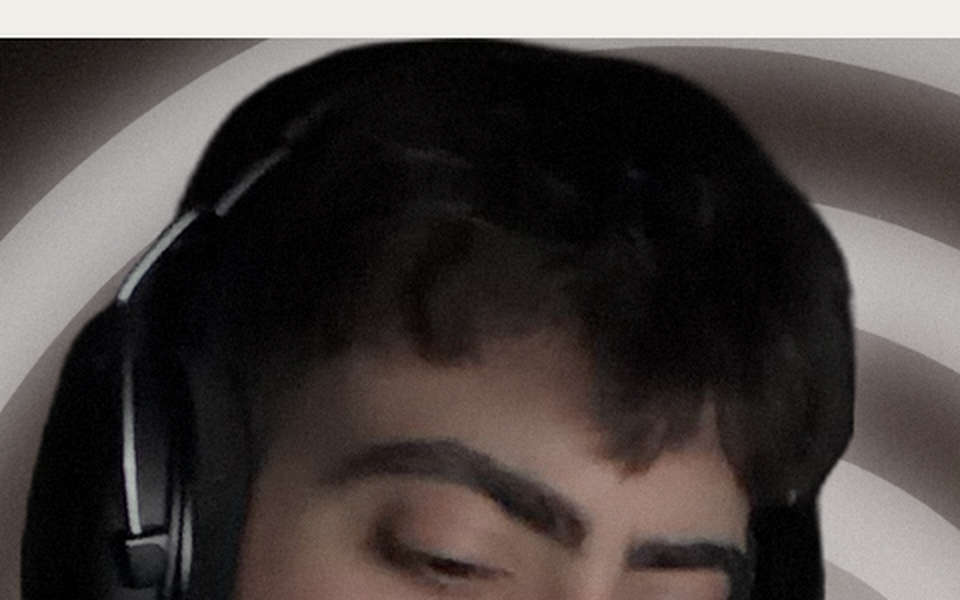
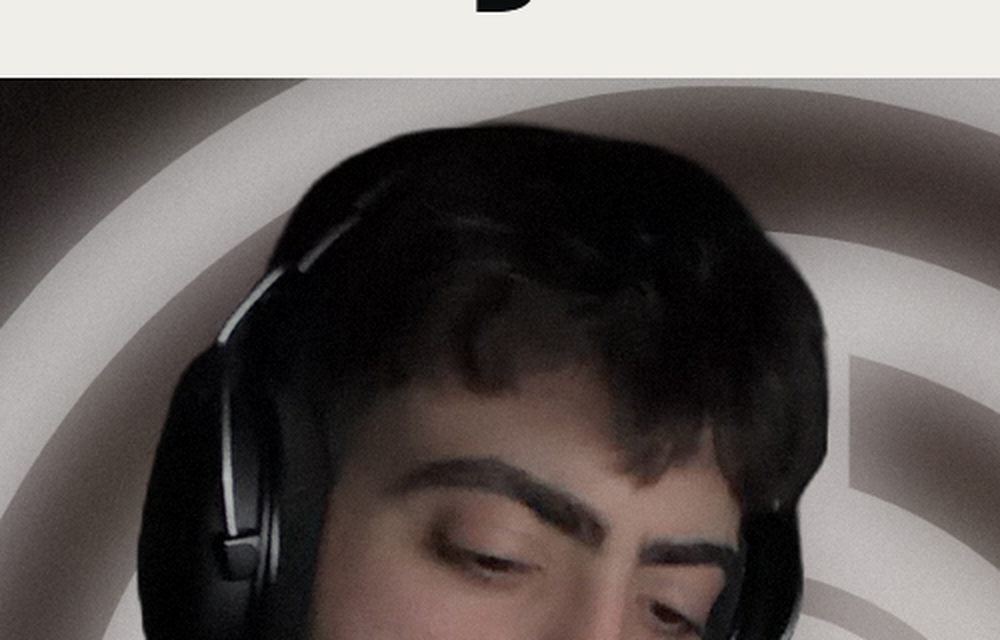
auto: checkpoint 2026-10-07 19:55:33

diff --git a/AGENT_CHAT.md b/AGENT_CHAT.md
@@ -407,3 +407,6 @@ Content-generator gaps. Gap 1: live sync_runs show three stacked causes (posts t
 
 ### [2026-10-07] CLAUDE
 Slide 1 rebuilt with the founder-supplied background-removed cutout as the matte (img/cutout.png, alignment checked). Hair, ear/headphone and shoulder edges inspected at zoom: clean. Procedure doc updated: bg-removed cutout is the preferred matte route.
+
+### [2026-10-07] CLAUDE
+Slide 1 zoomed out about 17 percent (SHIFT=330, FOCUS_X=0.378 in claude-v2/final1.py; patch_zoom.py applied). Head still clear of the headline block, cutout edge clean at 2x, top of frame seamless.
